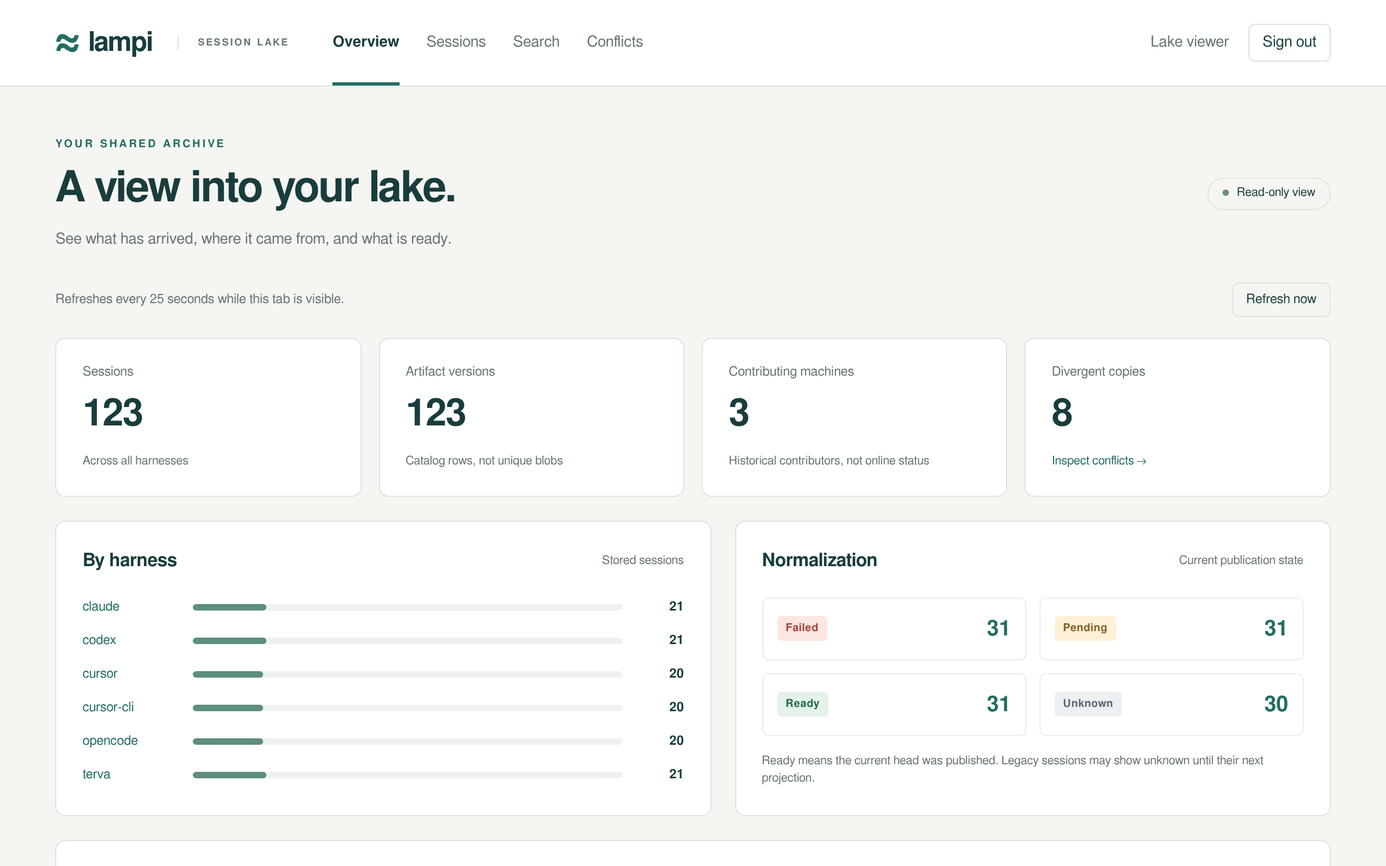
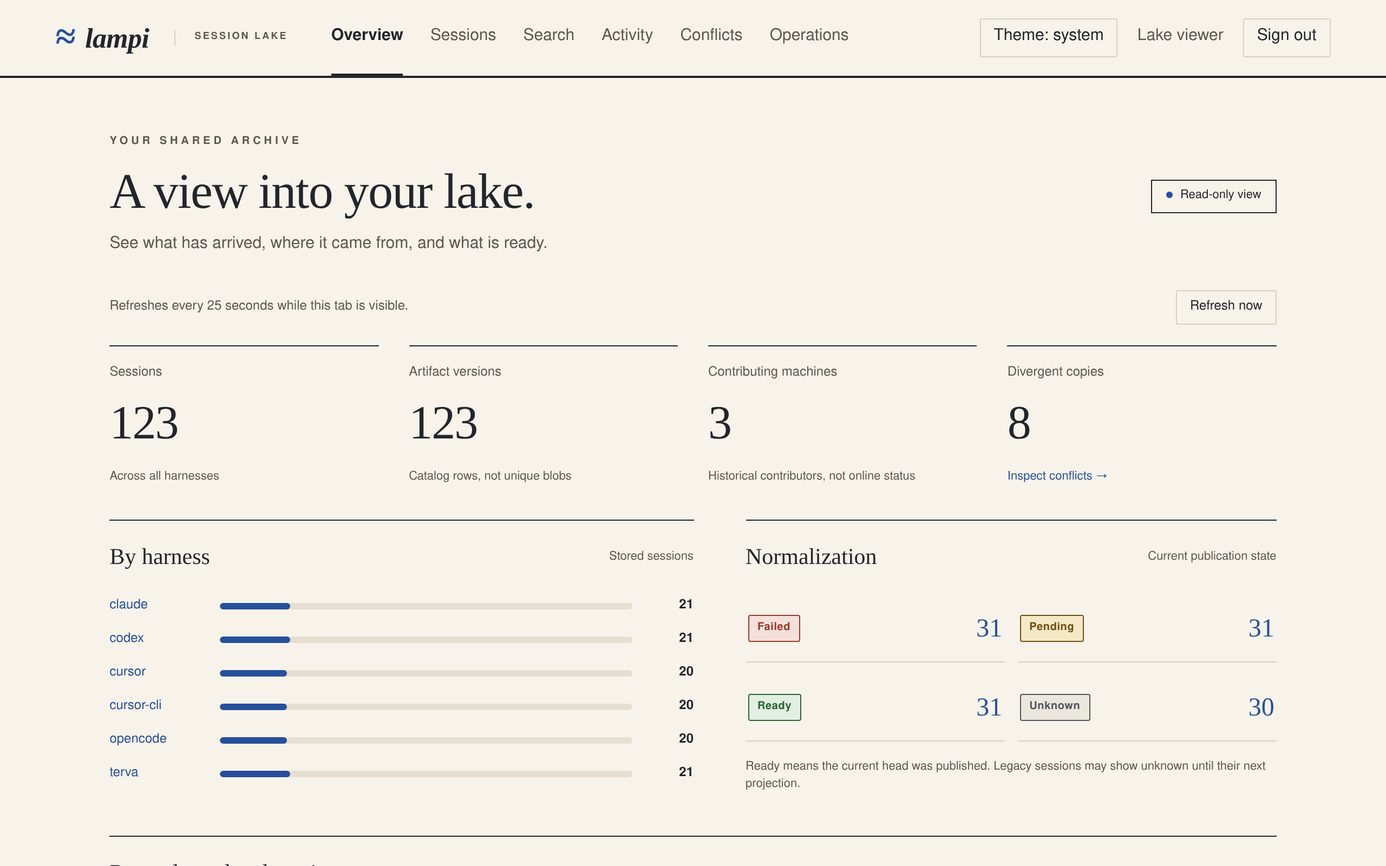
TKT-01M3K0Q90 Web: implement the Field Notebook design
Serif headlines and ledger figures, warm paper in light and warm
charcoal in dark, an ink-blue accent, and hairline rules in place of
boxed cards, with the measure narrowed to 1180px. The design ticket's
spike closes with the owner's choice. The docs screenshots show the
new design.

diff --git a/internal/web/assets/lake.css b/internal/web/assets/lake.css
@@ -1,6 +1,6 @@
-:root{color-scheme:light;--paper:#f5f6f2;--surface:#fff;--surface-2:#fafbf9;--ink:#183d3c;--muted:#5f6e6d;--line:#dce3dd;--line-soft:#e9eee9;--input-line:#cfdad2;--accent:#226e60;--accent-strong:#17584c;--on-accent:#fff;--soft:#e8f1ec;--focus:#e5a245;--highlight:#fff8e8;--mark:#ffe7a8;--chip:#f0f2f0;--chip-line:#e3e8e2;--chip-ink:#5d6b66;--ok-bg:#e4f2e9;--ok:#256d46;--warn-bg:#fff1d7;--warn:#7d5820;--bad-bg:#fce6e2;--bad:#a14538;--bad-line:#e7b3aa;--bad-soft:#fdf3f1;--neutral-bg:#edf0f2;--neutral:#596877;--bar:#00846b;--bar-neg:#c9651a;--meter:#5e8e7e;--axis:#9aa7ad;--hatch:#cfd8d2;--hover:rgba(24,61,60,.06);--dot:#6a8f81;--empty-icon:#8fa89b;--assistant:#8a7fb5;--tool:#c9a25a;font-family:Inter,ui-sans-serif,system-ui,-apple-system,BlinkMacSystemFont,"Segoe UI",sans-serif;font-size:14px}
-:root[data-theme=dark]{color-scheme:dark;--paper:#0e1615;--surface:#15201e;--surface-2:#1a2624;--ink:#e2ebe8;--muted:#98aaa5;--line:#2a3a37;--line-soft:#21302d;--input-line:#3b4f4a;--accent:#62c9ad;--accent-strong:#86dac2;--on-accent:#062019;--soft:#1c2f2a;--focus:#f0b75e;--highlight:#342c1a;--mark:#5c4a1c;--chip:#1f2c2a;--chip-line:#2d3d3a;--chip-ink:#b0bfbb;--ok-bg:#163629;--ok:#86d9ab;--warn-bg:#382c12;--warn:#e8c47e;--bad-bg:#3b1d19;--bad:#f2a79a;--bad-line:#6b3a32;--bad-soft:#2a1916;--neutral-bg:#212c33;--neutral:#aebcc7;--bar:#3fb896;--bar-neg:#e08a47;--meter:#4ea88d;--axis:#61736f;--hatch:#34453f;--hover:rgba(226,235,232,.07);--dot:#6fbf9f;--empty-icon:#50695f;--assistant:#ab9de3;--tool:#d8b46c}
-@media(prefers-color-scheme:dark){:root:not([data-theme=light]){color-scheme:dark;--paper:#0e1615;--surface:#15201e;--surface-2:#1a2624;--ink:#e2ebe8;--muted:#98aaa5;--line:#2a3a37;--line-soft:#21302d;--input-line:#3b4f4a;--accent:#62c9ad;--accent-strong:#86dac2;--on-accent:#062019;--soft:#1c2f2a;--focus:#f0b75e;--highlight:#342c1a;--mark:#5c4a1c;--chip:#1f2c2a;--chip-line:#2d3d3a;--chip-ink:#b0bfbb;--ok-bg:#163629;--ok:#86d9ab;--warn-bg:#382c12;--warn:#e8c47e;--bad-bg:#3b1d19;--bad:#f2a79a;--bad-line:#6b3a32;--bad-soft:#2a1916;--neutral-bg:#212c33;--neutral:#aebcc7;--bar:#3fb896;--bar-neg:#e08a47;--meter:#4ea88d;--axis:#61736f;--hatch:#34453f;--hover:rgba(226,235,232,.07);--dot:#6fbf9f;--empty-icon:#50695f;--assistant:#ab9de3;--tool:#d8b46c}}*{box-sizing:border-box}body{margin:0;background:var(--paper);color:var(--ink);line-height:1.5}a{color:var(--accent);text-decoration:none}a:hover{text-decoration:underline}button,input,select{font:inherit}button,.button{border:1px solid var(--accent);border-radius:6px;background:var(--accent);color:var(--on-accent);padding:9px 15px;cursor:pointer;display:inline-block}button:hover,.button:hover{background:var(--accent-strong);text-decoration:none}.quiet{background:transparent;color:var(--ink);border:1px solid var(--line);padding:6px 12px}.quiet:hover{background:var(--soft)}:focus-visible{outline:3px solid var(--focus);outline-offset:3px}.skip{position:absolute;top:-100px;left:12px;padding:10px;background:var(--surface);z-index:5}.skip:focus{top:10px}.topbar{display:flex;align-items:center;gap:40px;padding:0 4vw;min-height:80px;border-bottom:1px solid var(--line);background:var(--surface)}.brand{font-size:25px;font-weight:750;letter-spacing:-1px;color:var(--ink);display:flex;gap:9px;align-items:center;white-space:nowrap}.brand:hover{text-decoration:none}.pond{font-size:38px;color:var(--accent);line-height:1}.brand-note{font-size:9px;letter-spacing:1.6px;margin-left:14px;font-weight:600;color:var(--muted);border-left:1px solid var(--line);padding-left:18px}.topbar nav{display:flex;gap:25px;align-self:stretch}.topbar nav a{display:flex;align-items:center;border-bottom:3px solid transparent;color:var(--muted);padding:3px 0 0}.topbar nav a[aria-current]{border-color:var(--accent);color:var(--ink);font-weight:650}.account{display:flex;align-items:center;gap:18px;margin-left:auto;color:var(--muted)}.account>span{max-width:200px;overflow:hidden;text-overflow:ellipsis;white-space:nowrap}.account form{margin:0}main{max-width:1440px;margin:auto;padding:46px 4vw 60px}.page-heading{display:flex;justify-content:space-between;align-items:center;gap:20px;margin-bottom:24px}.eyebrow{font-size:10px;letter-spacing:2px;font-weight:700;color:var(--accent);margin:0 0 10px}h1{font-size:clamp(27px,3.1vw,40px);font-weight:550;letter-spacing:-1.4px;line-height:1.2;margin:0 0 12px}h2{font-size:17px;font-weight:650;letter-spacing:-.3px;margin:0 0 20px}h3{font-size:17px;margin:4px 0}.lead{color:var(--muted);margin:0}.read-only{border:1px solid var(--line);border-radius:20px;padding:6px 13px;font-size:11px;white-space:nowrap}.read-only:before{content:"";display:inline-block;width:6px;height:6px;border-radius:50%;background:var(--dot);margin-right:7px}.refreshbar{display:flex;align-items:center;gap:12px;min-height:42px;margin:0 0 14px;color:var(--muted);font-size:12px}.refreshbar p{margin:0}.refreshbar button{margin-left:auto}.stats{display:grid;grid-template-columns:repeat(4,1fr);gap:16px;margin-bottom:22px}.stats article{background:var(--surface);border:1px solid var(--line);border-radius:9px;padding:22px 24px;min-height:146px}.stats article>span{display:block;font-size:12px;color:var(--muted)}.stats strong{display:block;font-size:35px;font-weight:550;letter-spacing:-1px;margin:4px 0 6px}.stats small{font-size:11px;color:var(--muted)}.split{display:grid;grid-template-columns:1.1fr 1fr;gap:22px}.panel{border:1px solid var(--line);border-radius:9px;background:var(--surface);padding:24px;margin-bottom:22px;min-width:0}.section-heading{display:flex;justify-content:space-between;align-items:center;gap:10px;margin-bottom:20px}.section-heading h2{margin:0}.section-heading>span,.section-heading>a{font-size:11px;color:var(--muted)}.section-heading>a{color:var(--accent)}.harnesses{list-style:none;margin:0;padding:0;display:grid;gap:13px}.harnesses li{display:grid;grid-template-columns:90px 1fr 45px;align-items:center;gap:12px;font-size:12px}.harnesses strong{text-align:right;font-weight:600}meter{width:100%;height:12px;accent-color:var(--accent)}meter::-webkit-meter-bar{background:var(--line-soft);border:0}meter::-webkit-meter-optimum-value{background:var(--meter);border-radius:5px}.states{display:grid;grid-template-columns:repeat(2,1fr);gap:12px}.states>a{display:flex;justify-content:space-between;align-items:center;border:1px solid var(--line-soft);border-radius:6px;padding:13px}.states strong{font-weight:600;font-size:20px}.badge{display:inline-block;font-size:10px;font-weight:650;letter-spacing:.3px;padding:4px 8px;border-radius:4px;background:var(--chip);color:var(--chip-ink);text-transform:capitalize;white-space:nowrap}.badge.ready{background:var(--ok-bg);color:var(--ok)}.badge.pending{background:var(--warn-bg);color:var(--warn)}.badge.failed{background:var(--bad-bg);color:var(--bad)}.badge.unknown{background:var(--neutral-bg);color:var(--neutral)}.hint{font-size:11px;color:var(--muted);margin:16px 0 0}.table-scroll{overflow-x:auto}table{border-collapse:collapse;width:100%;text-align:left;font-size:12px;table-layout:fixed;min-width:760px}th{font-size:10px;text-transform:uppercase;letter-spacing:.8px;color:var(--muted);font-weight:600;padding:12px 10px;border-bottom:1px solid var(--line);background:var(--surface-2)}td{padding:16px 10px;border-bottom:1px solid var(--line-soft);vertical-align:top;overflow-wrap:anywhere}tr:last-child td{border-bottom:0}th:first-child{width:22%}.session-name{font-weight:600;display:block;max-width:240px;overflow:hidden;white-space:nowrap;text-overflow:ellipsis}.sub{display:block;font-size:10px;color:var(--muted);margin-top:5px}.mono,code{font-family:ui-monospace,SFMono-Regular,Consolas,monospace;font-size:11px}.harness{background:var(--chip);border:1px solid var(--chip-line);padding:3px 8px;border-radius:4px;font-size:10px}.project-label{display:block;overflow:hidden;text-overflow:ellipsis;white-space:nowrap}.wrap{overflow-wrap:anywhere}.empty{text-align:center;padding:36px 20px;color:var(--muted)}.empty>span{font-size:44px;color:var(--empty-icon)}.empty p{font-size:12px;max-width:460px;margin:9px auto}.filters{display:flex;align-items:end;flex-wrap:wrap;gap:14px;background:var(--surface);border:1px solid var(--line);padding:18px;border-radius:8px}.filters label{display:flex;flex-direction:column;gap:6px;font-size:11px;color:var(--muted)}input,select{background:var(--surface);border:1px solid var(--input-line);border-radius:5px;color:var(--ink);padding:9px 10px;max-width:100%}.filters .check{flex-direction:row;align-items:center;align-self:center;margin-top:19px;max-width:145px}.filters input[type=checkbox]{accent-color:var(--accent)}.text-link{font-size:12px;align-self:center;margin-top:18px}.filters+.hint{margin:8px 0 16px}.details{display:grid;grid-template-columns:180px 1fr;gap:14px;margin:0}.details dt{font-size:12px;color:var(--muted)}.details dd{margin:0;min-width:0}.tabs{display:flex;gap:18px;flex-wrap:wrap;border-bottom:1px solid var(--line);padding-bottom:16px;margin-bottom:22px;font-size:12px}.pagination{text-align:right;margin-bottom:20px}.updated{font-size:10px;color:var(--muted);text-align:right}time{font-size:11px}footer{border-top:1px solid var(--line);max-width:1440px;margin:0 auto;padding:24px 4vw;display:flex;gap:14px;align-items:center;font-weight:700}footer span,footer a{font-size:10px;font-weight:400;color:var(--muted)}footer a{margin-left:auto}.sr-only{position:absolute;width:1px;height:1px;padding:0;margin:-1px;overflow:hidden;clip:rect(0,0,0,0);white-space:nowrap;border:0}[hidden]{display:none!important}@media(max-width:1050px){.brand-note{display:none}.topbar{gap:28px}.stats{grid-template-columns:repeat(2,1fr)}.split{grid-template-columns:1fr}.account>span{max-width:100px}}@media(max-width:650px){.topbar{flex-wrap:wrap;gap:0;min-height:105px;padding:10px 5vw}.brand{font-size:22px}.account{font-size:11px;gap:8px}.account>span{max-width:105px}.topbar nav{order:3;width:100%;gap:26px;margin-top:6px}.topbar nav a{font-size:12px;padding:8px 0}.page-heading{display:block}.read-only{display:inline-block;margin-top:18px}main{padding:28px 5vw}.stats{gap:10px}.stats article{padding:16px;min-height:143px}.stats strong{font-size:30px}.stats small{font-size:10px}.panel{padding:16px}.section-heading{flex-wrap:wrap}.refreshbar{flex-wrap:wrap}.refreshbar p{flex:1 1 200px}.details{grid-template-columns:1fr;gap:4px}.details dd{margin-bottom:12px}.filters label{flex:1 1 130px}.filters .check{max-width:none;flex:1 1 100%;margin-top:0}.filters>button{flex:1}.filters .text-link{margin-top:0}footer{padding:20px 5vw}.updated{text-align:left}}
+:root{color-scheme:light;--paper:#f7f3ea;--surface:#fbf8f1;--surface-2:#f2ede2;--ink:#22252b;--muted:#5b574f;--line:#d9d1c1;--line-soft:#e6dfd1;--input-line:#cbc1ae;--accent:#27509b;--accent-strong:#1c3d78;--on-accent:#fff;--soft:#e8edf6;--focus:#c98a1b;--highlight:#fbefc9;--mark:#f3dc97;--chip:#efe9dc;--chip-line:#ddd4c2;--chip-ink:#534f47;--ok-bg:#e2eee1;--ok:#2b6339;--warn-bg:#f5e8c6;--warn:#6f4e12;--bad-bg:#f4e0da;--bad:#983829;--bad-line:#dfb2a8;--bad-soft:#f8ebe6;--neutral-bg:#ebe7df;--neutral:#51545b;--bar:#27509b;--bar-neg:#b8641c;--meter:#27509b;--axis:#9d968a;--hatch:#d6cdbb;--hover:rgba(34,37,43,.05);--dot:#27509b;--empty-icon:#a39a88;--assistant:#7a5aa6;--tool:#b08a3e;font-family:Inter,ui-sans-serif,system-ui,-apple-system,BlinkMacSystemFont,"Segoe UI",sans-serif;font-size:15px}
+:root[data-theme=dark]{color-scheme:dark;--paper:#17161a;--surface:#1c1b20;--surface-2:#222127;--ink:#ebe6db;--muted:#aaa397;--line:#35333a;--line-soft:#2a292f;--input-line:#46434b;--accent:#9db8f0;--accent-strong:#bfd0f5;--on-accent:#101a30;--soft:#232a3a;--focus:#f0b75e;--highlight:#3a3220;--mark:#5c4a1c;--chip:#26252b;--chip-line:#39373e;--chip-ink:#c4bdb1;--ok-bg:#1d3326;--ok:#8fd4a4;--warn-bg:#3a2f16;--warn:#e8c47e;--bad-bg:#3d2020;--bad:#f2a79a;--bad-line:#6b3a32;--bad-soft:#2a1916;--neutral-bg:#26282e;--neutral:#b8bcc6;--bar:#8aa8ea;--bar-neg:#e08a47;--meter:#8aa8ea;--axis:#6c6760;--hatch:#3a3840;--hover:rgba(235,230,219,.06);--dot:#9db8f0;--empty-icon:#5f5a52;--assistant:#b9a3e6;--tool:#d8b46c}
+@media(prefers-color-scheme:dark){:root:not([data-theme=light]){color-scheme:dark;--paper:#17161a;--surface:#1c1b20;--surface-2:#222127;--ink:#ebe6db;--muted:#aaa397;--line:#35333a;--line-soft:#2a292f;--input-line:#46434b;--accent:#9db8f0;--accent-strong:#bfd0f5;--on-accent:#101a30;--soft:#232a3a;--focus:#f0b75e;--highlight:#3a3220;--mark:#5c4a1c;--chip:#26252b;--chip-line:#39373e;--chip-ink:#c4bdb1;--ok-bg:#1d3326;--ok:#8fd4a4;--warn-bg:#3a2f16;--warn:#e8c47e;--bad-bg:#3d2020;--bad:#f2a79a;--bad-line:#6b3a32;--bad-soft:#2a1916;--neutral-bg:#26282e;--neutral:#b8bcc6;--bar:#8aa8ea;--bar-neg:#e08a47;--meter:#8aa8ea;--axis:#6c6760;--hatch:#3a3840;--hover:rgba(235,230,219,.06);--dot:#9db8f0;--empty-icon:#5f5a52;--assistant:#b9a3e6;--tool:#d8b46c}}*{box-sizing:border-box}body{margin:0;background:var(--paper);color:var(--ink);line-height:1.5}a{color:var(--accent);text-decoration:none}a:hover{text-decoration:underline}button,input,select{font:inherit}button,.button{border:1px solid var(--accent);border-radius:2px;background:var(--accent);color:var(--on-accent);padding:9px 15px;cursor:pointer;display:inline-block}button:hover,.button:hover{background:var(--accent-strong);text-decoration:none}.quiet{background:transparent;color:var(--ink);border:1px solid var(--line);padding:6px 12px}.quiet:hover{background:var(--soft)}:focus-visible{outline:3px solid var(--focus);outline-offset:3px}.skip{position:absolute;top:-100px;left:12px;padding:10px;background:var(--surface);z-index:5}.skip:focus{top:10px}.topbar{display:flex;align-items:center;gap:40px;padding:0 4vw;min-height:72px;border-bottom:2px solid var(--ink);background:var(--paper)}.brand{font-family:"Iowan Old Style","Charter","Source Serif 4","Source Serif Pro",ui-serif,Georgia,Cambria,serif;font-style:italic;font-size:26px;font-weight:600;letter-spacing:-.3px;color:var(--ink);display:flex;gap:9px;align-items:center;white-space:nowrap}.brand:hover{text-decoration:none}.pond{font-style:normal;font-size:34px;color:var(--accent);line-height:1}.brand-note{font-family:Inter,ui-sans-serif,system-ui,sans-serif;font-style:normal;font-size:9px;letter-spacing:1.6px;margin-left:14px;font-weight:600;color:var(--muted);border-left:1px solid var(--line);padding-left:18px}.topbar nav{display:flex;gap:25px;align-self:stretch}.topbar nav a{display:flex;align-items:center;border-bottom:2px solid transparent;color:var(--muted);padding:3px 0 0}.topbar nav a[aria-current]{border-color:var(--ink);color:var(--ink);font-weight:650}.account{display:flex;align-items:center;gap:18px;margin-left:auto;color:var(--muted)}.account>span{max-width:200px;overflow:hidden;text-overflow:ellipsis;white-space:nowrap}.account form{margin:0}main{max-width:1180px;margin:auto;padding:52px 4vw 64px}.page-heading{display:flex;justify-content:space-between;align-items:center;gap:20px;margin-bottom:24px}.eyebrow{font-size:10px;letter-spacing:3px;font-weight:700;color:var(--muted);margin:0 0 10px}h1{font-family:"Iowan Old Style","Charter","Source Serif 4","Source Serif Pro",ui-serif,Georgia,Cambria,serif;font-size:clamp(30px,4vw,46px);font-weight:500;letter-spacing:-.8px;line-height:1.2;margin:0 0 12px}h2{font-family:"Iowan Old Style","Charter","Source Serif 4","Source Serif Pro",ui-serif,Georgia,Cambria,serif;font-size:21px;font-weight:500;letter-spacing:0;margin:0 0 20px}h3{font-size:17px;margin:4px 0}.lead{color:var(--muted);margin:0}.read-only{border:1px solid var(--ink);border-radius:0;padding:6px 13px;font-size:11px;white-space:nowrap}.read-only:before{content:"";display:inline-block;width:6px;height:6px;border-radius:50%;background:var(--dot);margin-right:7px}.refreshbar{display:flex;align-items:center;gap:12px;min-height:42px;margin:0 0 14px;color:var(--muted);font-size:12px}.refreshbar p{margin:0}.refreshbar button{margin-left:auto}.stats{display:grid;grid-template-columns:repeat(4,1fr);gap:28px;margin-bottom:22px}.stats article{border-top:1px solid var(--ink);padding:16px 0 6px;min-height:0}.stats article>span{display:block;font-size:12px;color:var(--muted)}.stats strong{display:block;font-family:"Iowan Old Style","Charter","Source Serif 4","Source Serif Pro",ui-serif,Georgia,Cambria,serif;font-size:44px;font-weight:400;letter-spacing:-1px;margin:4px 0 6px}.stats small{font-size:11px;color:var(--muted)}.split{display:grid;grid-template-columns:1.1fr 1fr;gap:48px}.panel{border-top:1px solid var(--ink);padding:18px 0 8px;margin-bottom:30px;min-width:0}.section-heading{display:flex;justify-content:space-between;align-items:center;gap:10px;margin-bottom:20px}.section-heading h2{margin:0}.section-heading>span,.section-heading>a{font-size:11px;color:var(--muted)}.section-heading>a{color:var(--accent)}.harnesses{list-style:none;margin:0;padding:0;display:grid;gap:13px}.harnesses li{display:grid;grid-template-columns:90px 1fr 45px;align-items:center;gap:12px;font-size:12px}.harnesses strong{text-align:right;font-weight:600}meter{width:100%;height:12px;accent-color:var(--accent)}meter::-webkit-meter-bar{background:var(--line-soft);border:0}meter::-webkit-meter-optimum-value{background:var(--meter);border-radius:5px}.states{display:grid;grid-template-columns:repeat(2,1fr);gap:12px}.states>a{display:flex;justify-content:space-between;align-items:center;border-bottom:1px solid var(--line);padding:12px 2px}.states strong{font-weight:600;font-size:20px}.badge{display:inline-block;font-size:10px;font-weight:650;letter-spacing:.3px;padding:4px 8px;border-radius:2px;border:1px solid currentColor;background:var(--chip);color:var(--chip-ink);text-transform:capitalize;white-space:nowrap}.badge.ready{background:var(--ok-bg);color:var(--ok)}.badge.pending{background:var(--warn-bg);color:var(--warn)}.badge.failed{background:var(--bad-bg);color:var(--bad)}.badge.unknown{background:var(--neutral-bg);color:var(--neutral)}.hint{font-size:11px;color:var(--muted);margin:16px 0 0}.table-scroll{overflow-x:auto}table{border-collapse:collapse;width:100%;text-align:left;font-size:12px;table-layout:fixed;min-width:760px}th{font-size:12px;font-style:italic;color:var(--muted);font-weight:500;padding:10px 10px;border-bottom:1px solid var(--ink)}td{padding:13px 10px;border-bottom:1px solid var(--line-soft);vertical-align:top;overflow-wrap:anywhere}tr:last-child td{border-bottom:0}th:first-child{width:22%}.session-name{font-weight:600;display:block;max-width:240px;overflow:hidden;white-space:nowrap;text-overflow:ellipsis}.sub{display:block;font-size:10px;color:var(--muted);margin-top:5px}.mono,code{font-family:ui-monospace,SFMono-Regular,Consolas,monospace;font-size:11px}.harness{border:1px solid var(--chip-line);padding:3px 8px;border-radius:2px;font-size:10px}.project-label{display:block;overflow:hidden;text-overflow:ellipsis;white-space:nowrap}.wrap{overflow-wrap:anywhere}.empty{text-align:center;padding:36px 20px;color:var(--muted)}.empty>span{font-size:44px;color:var(--empty-icon)}.empty p{font-size:12px;max-width:460px;margin:9px auto}.filters{display:flex;align-items:end;flex-wrap:wrap;gap:14px;border-top:1px solid var(--ink);border-bottom:1px solid var(--line);padding:16px 0}.filters label{display:flex;flex-direction:column;gap:6px;font-size:11px;color:var(--muted)}input,select{background:var(--surface);border:1px solid var(--input-line);border-radius:5px;color:var(--ink);padding:9px 10px;max-width:100%}.filters .check{flex-direction:row;align-items:center;align-self:center;margin-top:19px;max-width:145px}.filters input[type=checkbox]{accent-color:var(--accent)}.text-link{font-size:12px;align-self:center;margin-top:18px}.filters+.hint{margin:8px 0 16px}.details{display:grid;grid-template-columns:180px 1fr;gap:14px;margin:0}.details dt{font-size:12px;color:var(--muted)}.details dd{margin:0;min-width:0}.tabs{display:flex;gap:18px;flex-wrap:wrap;border-bottom:1px solid var(--line);padding-bottom:16px;margin-bottom:22px;font-size:12px}.pagination{text-align:right;margin-bottom:20px}.updated{font-size:10px;color:var(--muted);text-align:right}time{font-size:11px}footer{border-top:2px solid var(--ink);max-width:1180px;margin:0 auto;padding:24px 4vw;display:flex;gap:14px;align-items:center;font-weight:700}footer span,footer a{font-size:10px;font-weight:400;color:var(--muted)}footer a{margin-left:auto}.sr-only{position:absolute;width:1px;height:1px;padding:0;margin:-1px;overflow:hidden;clip:rect(0,0,0,0);white-space:nowrap;border:0}[hidden]{display:none!important}@media(max-width:1050px){.brand-note{display:none}.topbar{gap:28px}.stats{grid-template-columns:repeat(2,1fr)}.split{grid-template-columns:1fr}.account>span{max-width:100px}}@media(max-width:650px){.topbar{flex-wrap:wrap;gap:0;min-height:105px;padding:10px 5vw}.brand{font-size:22px}.account{font-size:11px;gap:8px}.account>span{max-width:105px}.topbar nav{order:3;width:100%;gap:26px;margin-top:6px}.topbar nav a{font-size:12px;padding:8px 0}.page-heading{display:block}.read-only{display:inline-block;margin-top:18px}main{padding:28px 5vw}.stats{gap:10px}.stats article{padding:12px 0 4px;min-height:0}.stats strong{font-size:34px}.stats small{font-size:10px}.panel{padding:14px 0 6px}.section-heading{flex-wrap:wrap}.refreshbar{flex-wrap:wrap}.refreshbar p{flex:1 1 200px}.details{grid-template-columns:1fr;gap:4px}.details dd{margin-bottom:12px}.filters label{flex:1 1 130px}.filters .check{max-width:none;flex:1 1 100%;margin-top:0}.filters>button{flex:1}.filters .text-link{margin-top:0}footer{padding:20px 5vw}.updated{text-align:left}}
 .events{list-style:none;margin:0;padding:0;display:grid;gap:10px}.event{border:1px solid var(--line-soft);border-left:4px solid var(--input-line);border-radius:6px;padding:12px 14px;min-width:0}.event.actor-user{border-left-color:var(--meter)}.event.actor-assistant{border-left-color:var(--assistant)}.event.actor-tool{border-left-color:var(--tool)}.event.actor-harness,.event.actor-system{border-left-color:var(--axis)}.event.target{background:var(--highlight);border-color:var(--focus)}.event:target{background:var(--highlight)}.event-head{display:flex;flex-wrap:wrap;align-items:center;gap:8px;font-size:11px;color:var(--muted)}.event-head time{margin-left:auto}.pos{color:var(--muted)}.etype{font-weight:600;color:var(--ink)}.sub-inline{font-size:10px}.content{white-space:pre-wrap;overflow-wrap:anywhere;font-family:ui-monospace,SFMono-Regular,Consolas,monospace;font-size:12px;margin:10px 0 0;max-height:36em;overflow:auto;background:var(--surface-2);border-radius:4px;padding:10px}.usage{display:flex;flex-wrap:wrap;gap:4px 8px;font-size:11px;margin:10px 0 0}.usage dd+dt{margin-left:12px}.usage dt{color:var(--muted)}.usage dd{margin:0}.pagination{display:flex;gap:12px;align-items:center;margin:14px 0}.transcript-meta{margin:0 0 6px}
 .search-form .grow{flex:1 1 280px}.search-form .grow input{width:100%}.coverage{margin:8px 0 16px}.hits{list-style:none;margin:0;padding:0;display:grid;gap:12px}.hit{border-bottom:1px solid var(--line-soft);padding:0 0 12px;min-width:0}.hit:last-child{border-bottom:0}.hit-head{display:flex;flex-wrap:wrap;align-items:center;gap:8px;font-size:11px;color:var(--muted)}.hit-head .session-name{max-width:340px;font-size:13px}.hit-head time{margin-left:auto}.snippet{font-family:ui-monospace,SFMono-Regular,Consolas,monospace;font-size:12px;margin:8px 0 4px;overflow-wrap:anywhere;white-space:pre-wrap}.snippet mark{background:var(--mark);color:inherit;border-radius:2px;padding:0 1px}
 .excerpt-bar{position:sticky;top:0;z-index:2;display:flex;flex-wrap:wrap;align-items:center;gap:12px;background:var(--surface-2);border:1px solid var(--line);border-radius:6px;padding:10px 14px;margin:8px 0;font-size:12px}.excerpt-bar[hidden]{display:none}.excerpt-bar span{flex:1 1 200px}.select-event{display:inline-flex;align-items:center}.select-event input{margin:0;width:15px;height:15px;accent-color:var(--accent)}.text-link[hidden]{display:none}
@@ -9,9 +9,11 @@
 @media(max-width:650px){.chart svg{min-width:600px}}
 .badge.used{background:var(--ok-bg);color:var(--ok)}.badge.expired{background:var(--neutral-bg);color:var(--neutral)}.badge.revoked{background:var(--bad-bg);color:var(--bad)}
 pre.copy{white-space:pre-wrap;overflow-wrap:anywhere;font-family:ui-monospace,SFMono-Regular,Consolas,monospace;font-size:12px;background:var(--surface-2);border:1px solid var(--line);border-radius:4px;padding:10px;margin:8px 0}
-.copy-button{margin:0 0 12px}.problem{border-color:var(--bad-line);background:var(--bad-soft)}
+.copy-button{margin:0 0 12px}.problem{border:1px solid var(--bad-line);background:var(--bad-soft);padding:16px 18px}
 .filters+.refreshbar{margin-top:10px}
 .num{text-align:right;font-variant-numeric:tabular-nums}th.num{text-align:right}.storage-table th:first-child{width:34%}.storage-table meter{max-width:160px}.machines-table th:first-child{width:28%}.badge.fresh-active{background:var(--ok-bg);color:var(--ok)}.badge.fresh-idle{background:var(--warn-bg);color:var(--warn)}.badge.fresh-quiet{background:var(--bad-bg);color:var(--bad)}.badge.fresh-never{background:var(--neutral-bg);color:var(--neutral)}
 .account button{white-space:nowrap}
 /* Below the width the one-row header needs, the nav takes its own row and scrolls. */
 @media(max-width:1240px){.topbar{flex-wrap:wrap;column-gap:24px;padding-top:10px}.topbar nav{order:3;width:100%;min-height:44px;overflow-x:auto;overflow-y:hidden;scrollbar-width:thin}.topbar nav a{white-space:nowrap;flex:none}.account{flex-wrap:wrap;justify-content:flex-end;row-gap:6px;min-width:0}}
+/* Field Notebook: ledger figures and a paper ground for the few boxed things. */
+.states strong,.num strong{font-family:"Iowan Old Style","Charter","Source Serif 4","Source Serif Pro",ui-serif,Georgia,Cambria,serif;font-weight:400}.states strong{font-size:24px}td.num,.stats strong{font-variant-numeric:lining-nums tabular-nums}.minted{border:1px solid var(--ink);padding:18px 20px;background:var(--surface)}

diff --git a/.tickets/tickets/TKT-01M3K0Q900PVKSJT5825BHEAD2.md b/.tickets/tickets/TKT-01M3K0Q900PVKSJT5825BHEAD2.md
@@ -1,0 +1,91 @@
+---
+schema: 3
+id: TKT-01M3K0Q900PVKSJT5825BHEAD2
+title: "Web: implement the Field Notebook design"
+type: task
+status: in-progress
+status_reason: null
+priority: normal
+due_on: null
+labels:
+  - area/ops
+assignees: []
+milestone: null
+parent: TKT-01M3JV3TRWB6JQQGY1F84JCFDE
+origin: null
+dependencies:
+  - TKT-01M3JV4643C6AEX7RRAK11Z31T
+blocks_on: none
+references: []
+claim:
+  actor: agent:claude-code/e4a47e8c
+  branch: design/field-notebook
+  worktree: /home/sothr/.t3/worktrees/lampi/t3code-e4a47e8c
+  commit: 1dc8ced7e35ddc6c118507ec94cc62523b6fcd10
+  session: null
+  claimed_at: 2026-09-28T03:25:17Z
+  expires_at: null
+archive: null
+created_at: 2026-09-28T03:25:17Z
+updated_at: 2026-09-28T03:29:31Z
+created_by:
+  id: agent:claude-code/e4a47e8c
+  name: ""
+updated_by:
+  id: agent:claude-code/e4a47e8c
+  name: ""
+extensions: {}
+---
+
+## Description
+
+Implement the Field Notebook direction the owner chose in TKT-01M3JV464:
+
+- serif headlines, and serif numerals set like a ledger
+- warm paper in light, warm charcoal in dark
+- an ink-blue accent
+- hairline rules in place of boxed cards
+- a wider measure
+
+The proposal stylesheet only laid overrides on top of the current
+design. This ticket changes the tokens and rules in lake.css itself, so
+that every page holds up: overview, sessions, detail, transcript,
+search, activity, operations, conflicts and registrations. Both themes
+keep WCAG AA contrast, and nothing overflows from 320 to 1440px.
+
+## Acceptance criteria
+
+- [x] lake.css carries the Field Notebook tokens and rules in both themes
+- [x] Every page renders without overflow from 320 to 1440px in both themes
+- [x] The contrast test passes for both themes
+
+## Notes
+
+**agent:claude-code/e4a47e8c** at 2026-09-28T03:29:31Z
+
+How the Field Notebook design was built:
+
+- **Changed lake.css in place instead of layering the proposal's
+  overrides on top.** The theme blocks now hold the Field Notebook
+  palettes. Panels, stats, filters and tables use rules instead of
+  boxes: a top rule in ink, headings and figures in a serif, and
+  italic table headers. The page measure narrows to 1180px.
+- **Badges keep a tinted background with an ink border.** The proposal
+  made them transparent. Keeping the tint preserves quick scanning of
+  state, and lets the existing contrast pairs still cover them.
+- **Fonts come from system serif stacks: Iowan Old Style, Charter,
+  Source Serif, then Georgia.** Self-hosting a web font was rejected:
+  it adds a download on every first visit, and the CSP would need a
+  font-src.
+- **The light theme's colours were tuned for AA on the warm paper.**
+  Muted is #5b574f, and chip, warning and bad ink were darkened a
+  step. The contrast test passes in both themes.
+
+Checked in headless Chromium. Every page type rendered in both themes:
+overview, sessions, detail, transcript, search, activity, operations,
+conflicts and registrations. No page overflows at 320, 390, 768, 1024,
+1280 or 1440px. One fix came out of the renders: the SESSION LAKE label
+had inherited the brand's serif italic.
+
+docs/images now holds screenshots of the new design at the same size
+as before, 2560×1600 at 2× scale.

diff --git a/.tickets/done/TKT-01M3JV4643C6AEX7RRAK11Z31T.md b/.tickets/done/TKT-01M3JV4643C6AEX7RRAK11Z31T.md
@@ -3,7 +3,7 @@ schema: 3
 id: TKT-01M3JV4643C6AEX7RRAK11Z31T
 title: "Web design pass: propose four directions for the owner"
 type: spike
-status: in-progress
+status: done
 status_reason: null
 priority: normal
 due_on: null
@@ -18,17 +18,10 @@ dependencies:
   - TKT-01M3JV462PY0VCMJHBB3GHEAEC
 blocks_on: none
 references: []
-claim:
-  actor: agent:claude-code/e4a47e8c
-  branch: ops/dark-theme
-  worktree: /home/sothr/.t3/worktrees/lampi/t3code-e4a47e8c
-  commit: 4a0eeef70a69f094c8d1307fe3a6d4815817a36f
-  session: null
-  claimed_at: 2026-09-28T02:12:41Z
-  expires_at: null
+claim: null
 archive: null
 created_at: 2026-09-28T01:47:29Z
-updated_at: 2026-09-28T02:12:42Z
+updated_at: 2026-09-28T03:25:17Z
 created_by:
   id: agent:claude-code/e4a47e8c
   name: ""
@@ -57,7 +50,7 @@ its own ticket.
 ## Acceptance criteria
 
 - [x] Four directions rendered on real pages in both themes, with screenshots
-- [ ] The owner has chosen a direction
+- [x] The owner has chosen a direction
 
 ## Notes
 
@@ -104,3 +97,11 @@ C and D would still need the account area rebalanced; B moves it into
 the sidebar.
 
 Waiting on the owner's choice. AC2 stays open until then.
+
+**agent:claude-code/e4a47e8c** at 2026-09-28T03:25:17Z
+
+The owner chose C, Field Notebook, on 2026-09-27. A, B and D are not pursued. A changed too little. B served operations at the cost of reading transcripts. D dropped the lake's identity. Implementation is filed as its own ticket.
+
+## Summary
+
+Four directions were proposed and rendered on real pages in both themes. The owner chose C, Field Notebook. Implementation continues in its own ticket.
